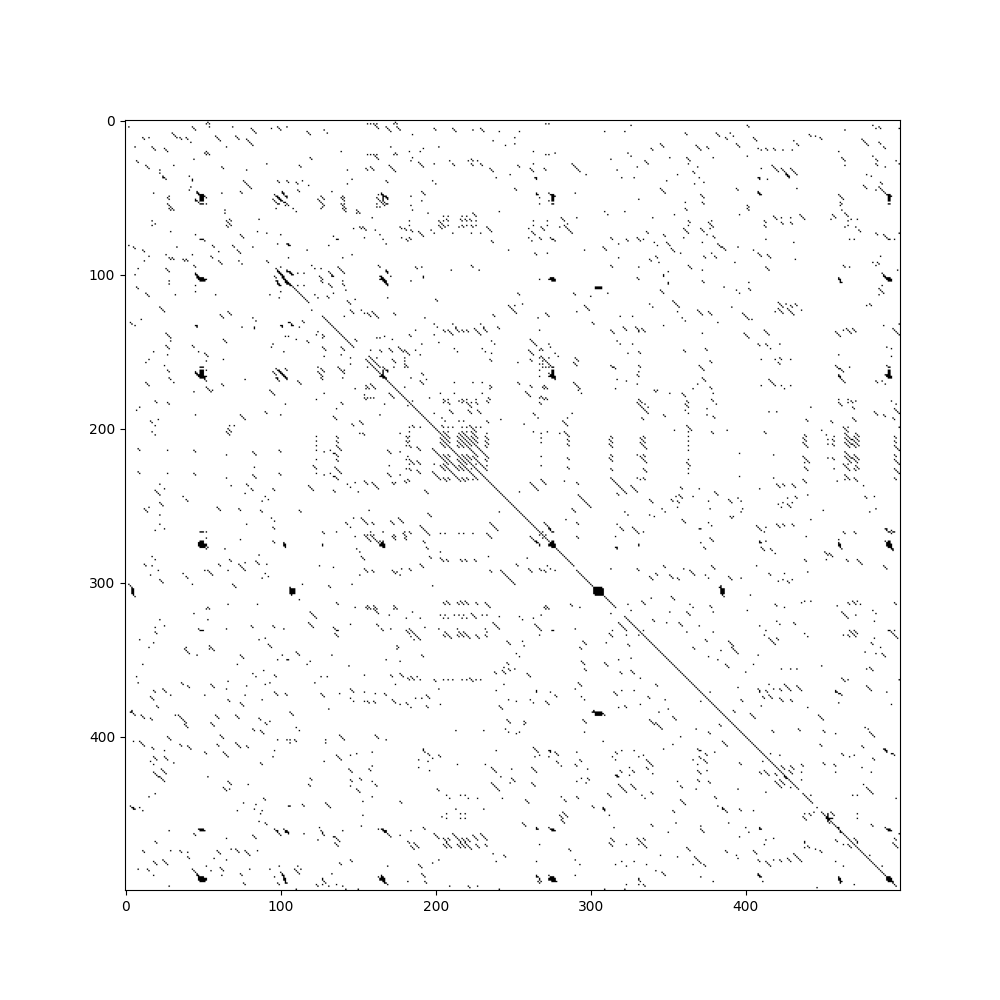
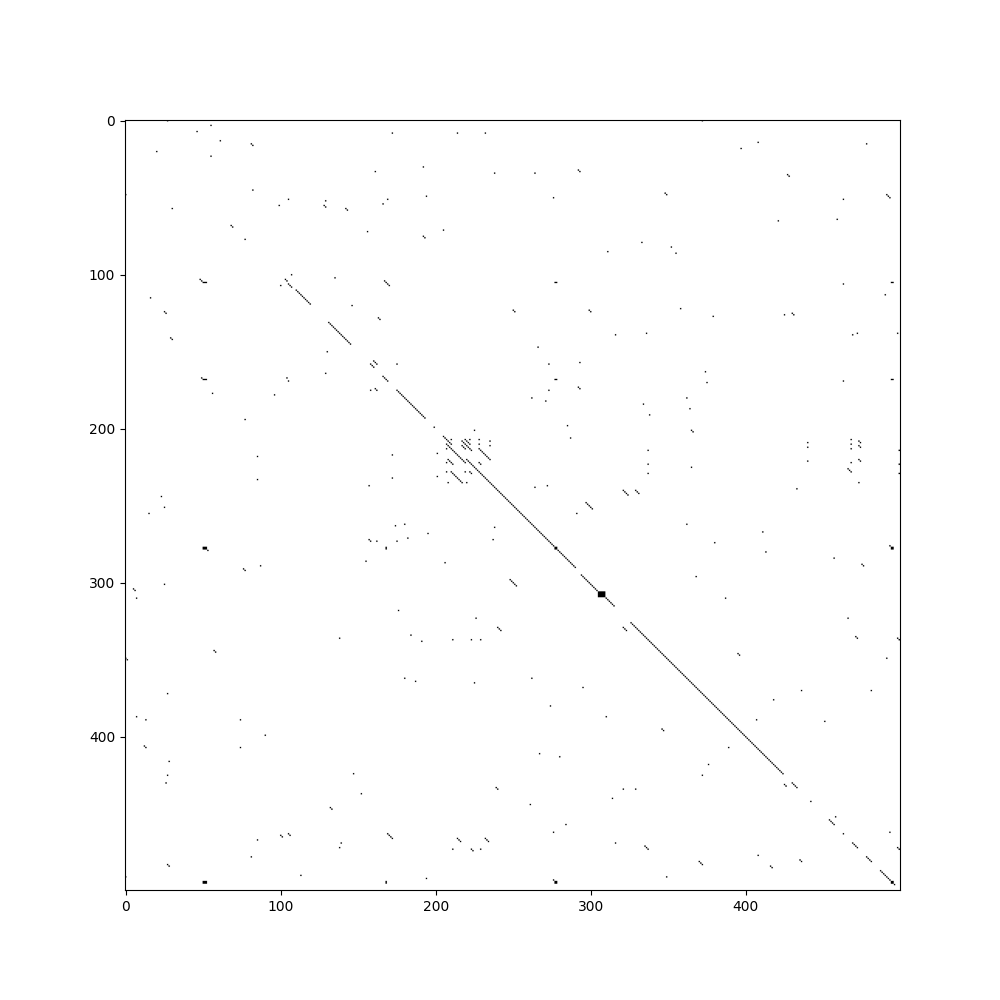
comandos7.py: mejora de eficiencia de memoria

diff --git a/comandos7.py b/comandos7.py
@@ -1,0 +1,172 @@
+import argparse
+from Bio import SeqIO
+import numpy as np
+import matplotlib.pyplot as plt
+import multiprocessing as mp
+from mpi4py import MPI
+import time
+from tqdm import tqdm
+from multiprocessing import Pool
+from scipy.signal import convolve2d
+
+# Función para calcular el dotplot secuencialmente
+
+
+def calculate_dotplot_sequential(Secuencia1, Secuencia2):
+    # Cálculo del dotplot secuencial
+    begin = time.time()
+    dotplot = np.empty([len(Secuencia1), len(Secuencia2)], dtype=np.int8)
+    print("La matriz de resultado tiene tamaño: ", dotplot.shape)
+
+    for i in tqdm(range(dotplot.shape[0])):
+        for j in range(dotplot.shape[1]):
+            if Secuencia1[i] == Secuencia2[j]:
+                dotplot[i, j] = 1
+            else:
+                dotplot[i, j] = 0
+
+    print(f"\n El código se ejecutó en: {time.time() - begin} segundos")
+    return dotplot
+
+
+def calculate_dotplot_parallel(Secuencia1, Secuencia2):
+    begin = time.time()
+    num_processes = 4
+    chunks = np.array_split(range(len(Secuencia1)), num_processes)
+
+    with Pool(num_processes) as p:
+        filtered_dotplot_list = list(p.imap(
+            dotplot_chunk_and_filter, [(chunk, Secuencia1, Secuencia2) for chunk in chunks]))
+
+    filtered_dotplot = np.vstack(filtered_dotplot_list)
+
+    print("La matriz de resultado tiene tamaño: ", filtered_dotplot.shape)
+    print(f"\n El código se ejecutó en: {time.time() - begin} segundos")
+    return filtered_dotplot
+
+
+def dotplot_chunk_and_filter(args):
+    chunk, Secuencia1, Secuencia2 = args
+    dotplot = np.empty([len(chunk), len(Secuencia2)], dtype=np.int8)
+    for i in range(len(chunk)):
+        for j in range(len(Secuencia2)):
+            if Secuencia1[chunk[i]] == Secuencia2[j]:
+                dotplot[i, j] = np.int8(1)
+            else:
+                dotplot[i, j] = np.int8(0)
+
+    filtered_dotplot = filter_dotplot(dotplot)
+    return filtered_dotplot
+
+
+# Función para calcular el dotplot utilizando mpi4py
+
+
+def filter_dotplot(dotplot, window_size=5, threshold=0.8):
+    rows, cols = dotplot.shape
+    binary_dotplot = np.zeros_like(dotplot, dtype=np.int8)
+
+    diagonal_sums = np.zeros_like(dotplot, dtype=np.float16)
+    for idx in range(window_size):
+        diagonal_sums += np.roll(np.roll(dotplot,
+                                 shift=idx, axis=0), shift=idx, axis=1)
+    diagonal_sums /= window_size
+
+    binary_dotplot = np.where(diagonal_sums > threshold, 1, 0)
+
+    return binary_dotplot
+# Función para calcular el dotplot utilizando mpi4py
+
+
+def calculate_dotplot_mpi(Secuencia1, Secuencia2):
+    begin = time.time()
+
+    comm = MPI.COMM_WORLD
+    rank = comm.Get_rank()
+    size = comm.Get_size()
+
+    # Dividir la secuencia1 en chunks, uno por cada proceso.
+    chunks = np.array_split(range(len(Secuencia1)), size)
+
+    dotplot = np.empty([len(chunks[rank]), len(Secuencia2)], dtype=np.int8)
+
+    for i in range(len(chunks[rank])):
+        for j in range(len(Secuencia2)):
+            if Secuencia1[chunks[rank][i]] == Secuencia2[j]:
+                dotplot[i, j] = np.int8(1)
+            else:
+                dotplot[i, j] = np.int8(0)
+
+    # gather data from all processes onto the root process
+    dotplot = comm.gather(dotplot, root=0)
+
+    # The root process prints the results and generates the plot.
+    if rank == 0:
+        # merge the gathered data into a single array
+        merged_data = np.vstack(dotplot)
+
+        # Apply the filter_dotplot function to the merged_data
+        filtered_merged_data = filter_dotplot(merged_data)
+
+        end = time.time()
+        print(f"Tiempo total de ejecución: {end-begin} segundos")
+
+        return filtered_merged_data
+
+# Función para guardar el dotplot en un archivo de imagen
+
+
+def save_dotplot(dotplot, output_file):
+    # Guardar el dotplot en un archivo de imagen
+    plt.figure(figsize=(5, 5))
+    plt.imshow(dotplot[:500, :500], cmap='Greys', aspect='auto')
+
+    plt.ylabel("Secuencia 1")
+    plt.xlabel("Secuencia 2")
+    plt.savefig(output_file)
+
+    # save_dotplot(dotplot[:500,:500 ])
+
+
+def merge_sequences_from_fasta(file_path):
+    sequences = []  # List to store all sequences
+    for record in SeqIO.parse(file_path, "fasta"):
+        # `record.seq` gives the sequence
+        sequences.append(str(record.seq))
+    return "".join(sequences)
+
+
+if __name__ == "__main__":
+    # Configurar la línea de comandos
+    parser = argparse.ArgumentParser(description='Dotplot analysis')
+    parser.add_argument('--input1', required=True, help='Input fasta file 1')
+    parser.add_argument('--input2', required=True, help='Input fasta file 2')
+    parser.add_argument('--output', required=True, help='Output image file')
+    parser.add_argument('--sequential', action='store_true',
+                        help='Run sequential dotplot')
+    parser.add_argument('--multiprocessing', action='store_true',
+                        help='Run dotplot using multiprocessing')
+    parser.add_argument('--mpi', action='store_true',
+                        help='Run dotplot using mpi4py')
+
+    args = parser.parse_args()
+
+    # Leer las secuencias desde los archivos fasta
+    seq1 = str(SeqIO.read(args.input1, "fasta").seq)
+    seq2 = str(SeqIO.read(args.input2, "fasta").seq)
+
+    # Calcular el dotplot según la opción seleccionada
+    if args.sequential:
+        dotplot = calculate_dotplot_sequential(seq1, seq2)
+    elif args.multiprocessing:
+        dotplot = calculate_dotplot_parallel(seq1, seq2)
+    elif args.mpi:
+        dotplot = calculate_dotplot_mpi(seq1, seq2)
+    else:
+        print("Debes seleccionar al menos una opción para calcular el dotplot.")
+        exit()
+
+    # Guardar el dotplot en un archivo de imagen
+    plt.figure(figsize=(10, 10))
+    plt.imshow(dotplot[:500, :500], cmap='Greys', aspect='auto')
+    plt.savefig(args.output)

diff --git a/comandos6.py b/comandos6.py
@@ -1,0 +1,171 @@
+import argparse
+from Bio import SeqIO
+import numpy as np
+import matplotlib.pyplot as plt
+import multiprocessing as mp
+from mpi4py import MPI
+import time
+from tqdm import tqdm
+from multiprocessing import Pool
+from scipy.signal import convolve2d
+
+# Función para calcular el dotplot secuencialmente
+
+
+def calculate_dotplot_sequential(Secuencia1, Secuencia2):
+    # Cálculo del dotplot secuencial
+    begin = time.time()
+    dotplot = np.empty([len(Secuencia1), len(Secuencia2)], dtype=np.int8)
+    print("La matriz de resultado tiene tamaño: ", dotplot.shape)
+
+    for i in tqdm(range(dotplot.shape[0])):
+        for j in range(dotplot.shape[1]):
+            if Secuencia1[i] == Secuencia2[j]:
+                dotplot[i, j] = 1
+            else:
+                dotplot[i, j] = 0
+
+    print(f"\n El código se ejecutó en: {time.time() - begin} segundos")
+    return dotplot
+
+
+def calculate_dotplot_parallel(Secuencia1, Secuencia2):
+    begin = time.time()
+    num_processes = 4
+    chunks = np.array_split(range(len(Secuencia1)), num_processes)
+
+    with Pool(num_processes) as p:
+        dotplot_list = p.starmap(
+            dotplot_chunk, [(chunk, Secuencia1, Secuencia2) for chunk in chunks])
+
+    dotplot = np.vstack(dotplot_list)
+
+    # Aplicar el filtro al dotplot
+    filtered_dotplot = filter_dotplot(dotplot)
+
+    print("La matriz de resultado tiene tamaño: ", filtered_dotplot.shape)
+    print(f"\n El código se ejecutó en: {time.time() - begin} segundos")
+    return filtered_dotplot
+
+
+def dotplot_chunk(chunk, Secuencia1, Secuencia2):
+    dotplot = np.empty([len(chunk), len(Secuencia2)], dtype=np.int8)
+    for i in range(len(chunk)):
+        for j in range(len(Secuencia2)):
+            if Secuencia1[chunk[i]] == Secuencia2[j]:
+                dotplot[i, j] = np.int8(1)
+            else:
+                dotplot[i, j] = np.int8(0)
+    return dotplot
+
+# Función para calcular el dotplot utilizando mpi4py
+
+
+def filter_dotplot(dotplot, window_size=5, threshold=0.8):
+    rows, cols = dotplot.shape
+    binary_dotplot = np.zeros_like(dotplot, dtype=np.int8)
+
+    diagonal_sums = np.zeros_like(dotplot, dtype=np.float16)
+    for idx in range(window_size):
+        diagonal_sums += np.roll(np.roll(dotplot,
+                                 shift=idx, axis=0), shift=idx, axis=1)
+    diagonal_sums /= window_size
+
+    binary_dotplot = np.where(diagonal_sums > threshold, 1, 0)
+
+    return binary_dotplot
+# Función para calcular el dotplot utilizando mpi4py
+
+
+def calculate_dotplot_mpi(Secuencia1, Secuencia2):
+    begin = time.time()
+
+    comm = MPI.COMM_WORLD
+    rank = comm.Get_rank()
+    size = comm.Get_size()
+
+    # Dividir la secuencia1 en chunks, uno por cada proceso.
+    chunks = np.array_split(range(len(Secuencia1)), size)
+
+    dotplot = np.empty([len(chunks[rank]), len(Secuencia2)], dtype=np.int8)
+
+    for i in range(len(chunks[rank])):
+        for j in range(len(Secuencia2)):
+            if Secuencia1[chunks[rank][i]] == Secuencia2[j]:
+                dotplot[i, j] = np.int8(1)
+            else:
+                dotplot[i, j] = np.int8(0)
+
+    # gather data from all processes onto the root process
+    dotplot = comm.gather(dotplot, root=0)
+
+    # The root process prints the results and generates the plot.
+    if rank == 0:
+        # merge the gathered data into a single array
+        merged_data = np.vstack(dotplot)
+
+        # Apply the filter_dotplot function to the merged_data
+        filtered_merged_data = filter_dotplot(merged_data)
+
+        end = time.time()
+        print(f"Tiempo total de ejecución: {end-begin} segundos")
+
+        return filtered_merged_data
+
+# Función para guardar el dotplot en un archivo de imagen
+
+
+def save_dotplot(dotplot, output_file):
+    # Guardar el dotplot en un archivo de imagen
+    plt.figure(figsize=(5, 5))
+    plt.imshow(dotplot[:500, :500], cmap='Greys', aspect='auto')
+
+    plt.ylabel("Secuencia 1")
+    plt.xlabel("Secuencia 2")
+    plt.savefig(output_file)
+
+    # save_dotplot(dotplot[:500,:500 ])
+
+
+def merge_sequences_from_fasta(file_path):
+    sequences = []  # List to store all sequences
+    for record in SeqIO.parse(file_path, "fasta"):
+        # `record.seq` gives the sequence
+        sequences.append(str(record.seq))
+    return "".join(sequences)
+
+
+if __name__ == "__main__":
+    # Configurar la línea de comandos
+    parser = argparse.ArgumentParser(description='Dotplot analysis')
+    parser.add_argument('--input1', required=True, help='Input fasta file 1')
+    parser.add_argument('--input2', required=True, help='Input fasta file 2')
+    parser.add_argument('--output', required=True, help='Output image file')
+    parser.add_argument('--sequential', action='store_true',
+                        help='Run sequential dotplot')
+    parser.add_argument('--multiprocessing', action='store_true',
+                        help='Run dotplot using multiprocessing')
+    parser.add_argument('--mpi', action='store_true',
+                        help='Run dotplot using mpi4py')
+
+    args = parser.parse_args()
+
+    # Leer las secuencias desde los archivos fasta
+    seq1 = str(SeqIO.read(args.input1, "fasta").seq)
+    seq2 = str(SeqIO.read(args.input2, "fasta").seq)
+
+    # Calcular el dotplot según la opción seleccionada
+    if args.sequential:
+        dotplot = calculate_dotplot_sequential(seq1, seq2)
+    elif args.multiprocessing:
+        dotplot = calculate_dotplot_parallel(seq1, seq2)
+    elif args.mpi:
+        dotplot = calculate_dotplot_mpi(seq1, seq2)
+    else:
+        print("Debes seleccionar al menos una opción para calcular el dotplot.")
+        exit()
+
+    # Guardar el dotplot en un archivo de imagen
+    plt.figure(figsize=(10, 10))
+    plt.imshow(dotplot[:500, :500], cmap='Greys', aspect='auto')
+    plt.savefig(args.output)
